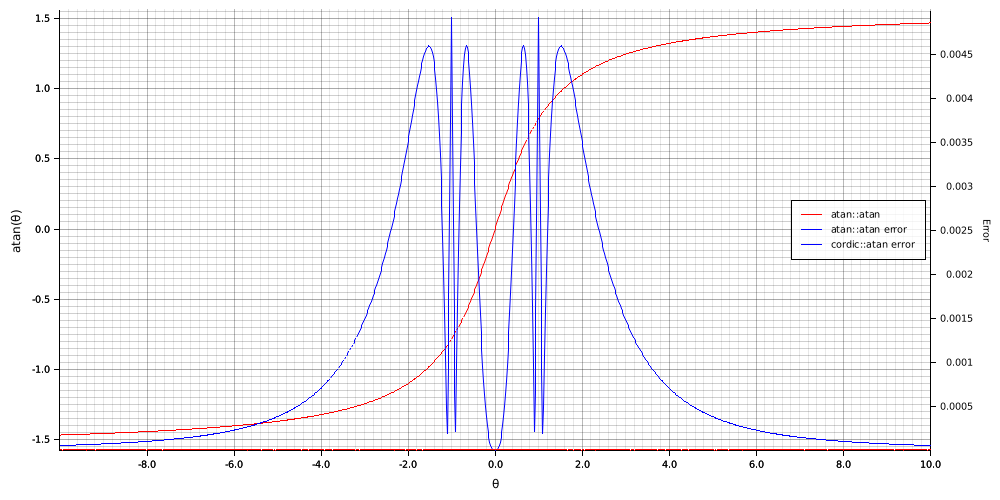
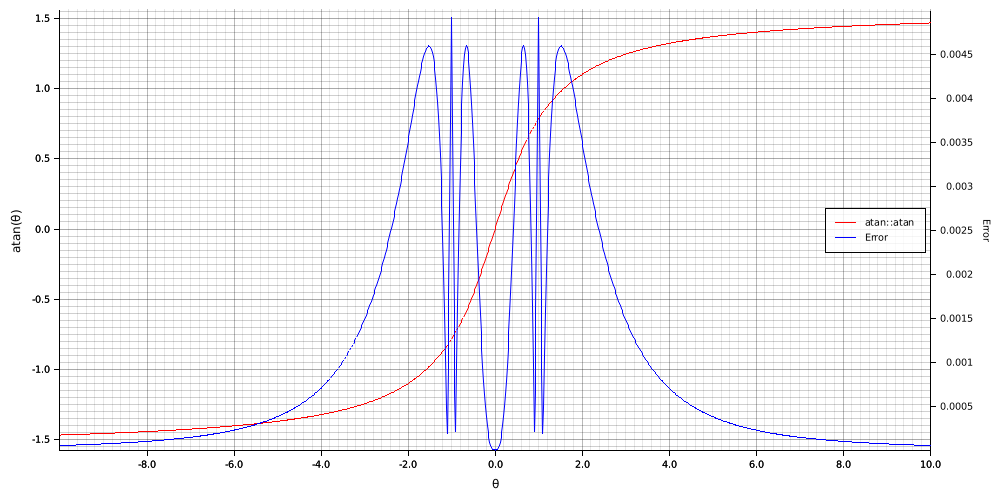
Updated comparisons.

Changed region(s): [[0.775, 0.39, 0.93, 0.54]]

diff --git a/src/atan.rs b/src/atan.rs
@@ -181,9 +181,13 @@ pub fn atan2<T>( y: T, x: T ) -> T
 /// ``` 
 /// ## Comparisons
 /// 
-/// The figure below shows the comparison between the various implementations and the `std::f32::atan` implementation.
+/// The figure below shows the function curve, and its error compared to the `std::f32::atan` implementation.
 /// 
 /// ![Alt version](https://github.com/ErikBuer/Fixed-Trigonometry/blob/main/figures/atan_comparisons.png?raw=true)
+/// 
+/// The error of this function is compared to the error of the atan implementation in the cordic crate below.
+/// 
+/// ![Alt version](https://github.com/ErikBuer/Fixed-Trigonometry/blob/main/figures/atan_error_comparisons.png?raw=true)
 /// 
 pub fn atan<T>( x: T ) -> T
     where T: fixed::traits::FixedSigned + cordic::CordicNumber

diff --git a/tests/atan_comparison.rs b/tests/atan_comparison.rs
@@ -69,8 +69,6 @@ fn atan_comparison() -> Result<(), Box<dyn std::error::Error>>
     use fixed::types::extra::U22 as U;
     use std::f32::consts::PI as PI;
 
-    use cordic;
-
     let root = BitMapBackend::new("figures/atan_comparisons.png", (1000, 500)).into_drawing_area();
     root.fill(&WHITE)?;
     let mut chart = ChartBuilder::on(&root)
